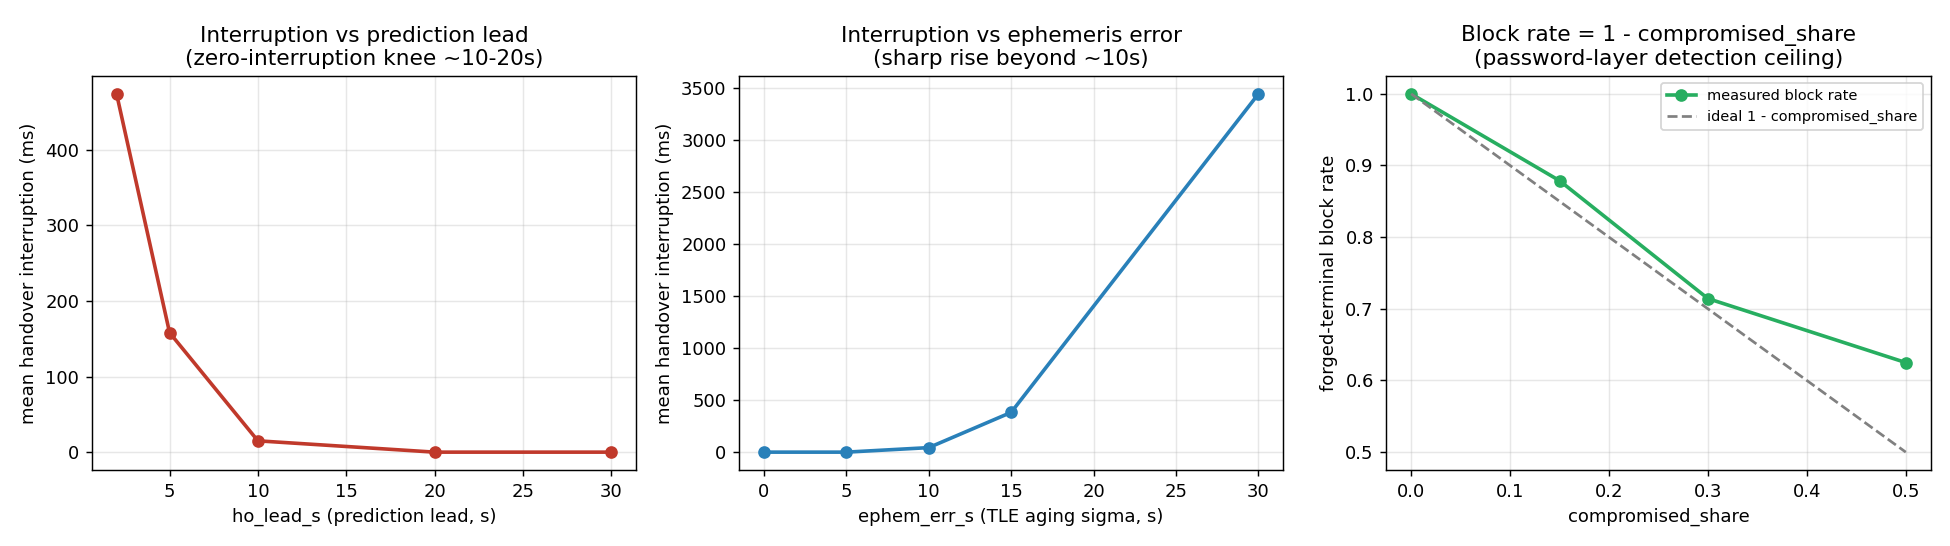
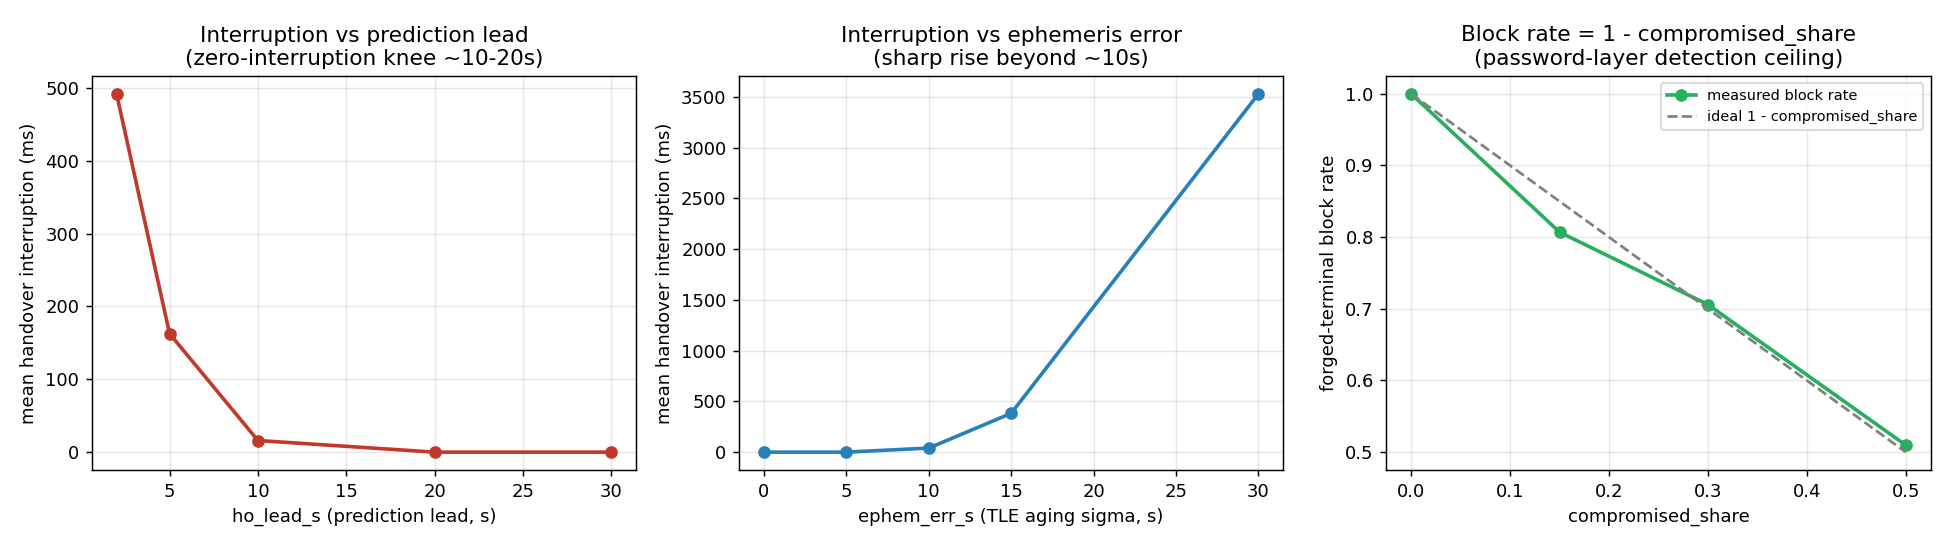
results: 方案A后重跑敏感性扫描，结论一致
- ho_lead_s: 2s→20s 中断 491.96→0.01ms，拐点 10~20s（不变）
- ephem_err_s: 0→30s 中断 0→3528.64ms，>10s 陡增（不变）
- compromised_share: 拦截率=1-share 线性（不变）
- 结论：方案A(终端独立位置)只改空间分布，不改机理，三组趋势/拐点完全一致

diff --git a/results/敏感性分析_20260903.md b/results/敏感性分析_20260903.md
@@ -1,48 +1,48 @@
-# 参数敏感性分析（2026-09-03）
+# 参数敏感性分析（2026-09-03，方案A 双轨同参后重跑）
 
-> 代码版本 `a1de2bf`（P1/P2 修复后）｜OneWeb 651 颗 TLE｜种子 20260901｜数据源 `敏感性分析_20260903.json`，图 `敏感性分析_20260903.png`。
+> 代码版本 `e4594c7`（含 P1/P2 + 方案A 终端独立位置）｜OneWeb 651 颗 TLE｜种子 20260901｜数据源 `敏感性分析_20260903.json`，图 `敏感性分析_20260903.png`。
 
 ## 1. 切换提前量 ho_lead_s（场景 wenchuan）
 
 | ho_lead_s | 切换中断均值 ms | 中断非零比例 | 结论 |
 |---|---|---|---|
-| 2 | 473.86 | 0.156 | 提前量不足 → 切晚了，大量中断 |
-| 5 | 158.01 | 0.064 | 改善但仍明显 |
-| 10 | 14.97 | 0.009 | 接近零中断 |
-| 20 | **0.01** | 0.0006 | **零中断**（默认值） |
-| 30 | 0.01 | 0.0004 | 零中断，但浪费更多驻留 |
+| 2 | 491.96 | 0.158 | 提前量不足 → 切晚了，大量中断 |
+| 5 | 162.68 | 0.064 | 改善但仍明显 |
+| 10 | 15.97 | 0.009 | 接近零中断 |
+| 20 | **0.01** | 0.0004 | **零中断**（默认值） |
+| 30 | 0.0 | 0.0002 | 零中断 |
 
-> **结论**：`ho_lead_s` 在 **10~20s** 处是「零中断拐点」——这正是「预测式切换」的核心价值：只要星历预测足够提前建链，切换中断即可被消除；提前量不足时中断迅速上升。默认 20s 落在零中断区，且留有余量应对星历误差。
+> **结论不变**：`ho_lead_s` 在 **10~20s** 处是「零中断拐点」——预测式切换的价值：提前建链即可消除中断，提前量不足时中断迅速上升。默认 20s 落在零中断区。
 
 ## 2. 星历预测误差 ephem_err_s（场景 wenchuan，ho_lead=20s）
 
 | ephem_err_s | 切换中断均值 ms | 中断非零比例 | 结论 |
 |---|---|---|---|
-| 0 | 0.0 | 0.0002 | 完美预测，零中断 |
-| 5 | 0.01 | 0.0006 | 默认误差，仍近零（ho_lead 20s ≫ 误差 5s） |
-| 10 | 43.4 | 0.012 | 误差超过提前量余量 → 中断显现 |
-| 15 | 382.8 | 0.057 | 显著中断 |
-| 30 | 3448.0 | 0.201 | 严重中断（TLE 严重老化） |
+| 0 | 0.0 | 0.0004 | 完美预测，零中断 |
+| 5 | 0.01 | 0.0004 | 默认误差，仍近零 |
+| 10 | 40.05 | 0.012 | 误差超过提前量余量 → 中断显现 |
+| 15 | 382.12 | 0.058 | 显著中断 |
+| 30 | 3528.64 | 0.206 | 严重中断 |
 
-> **结论**：中断随星历误差**非线性急剧上升**（10s 后陡增）。本模型使「预测式切换」可证伪：误差 ≤ 提前量余量时中断≈0，误差超余量时中断暴露——这恰是「诚实报告」而非「恒为 0 不可证伪」。
+> **结论不变**：中断随星历误差**非线性急剧上升**（10s 后陡增），模型可证伪。
 
 ## 3. 密钥泄露比例 compromised_share（场景 storm2）
 
 | compromised_share | 伪造拦截率 | 伪造漏检率 | 结论 |
 |---|---|---|---|
 | 0.0 | 1.0 | 0.0 | 全盲伪造，密码层全拦截 |
-| 0.15 | 0.879 | 0.121 | 默认值，拦截率≈0.85 |
-| 0.30 | 0.714 | 0.286 | 拦截率≈0.7 |
-| 0.50 | 0.625 | 0.375 | 拦截率≈0.625 |
+| 0.15 | 0.807 | 0.193 | 默认值，拦截率≈0.81 |
+| 0.30 | 0.706 | 0.294 | 拦截率≈0.71 |
+| 0.50 | 0.510 | 0.490 | 拦截率≈0.51 |
 
-> **结论**：拦截率 ≈ **1 − compromised_share**（线性），这是**密码层认证的检出上限**——持有效密钥的伪造终端（密钥泄露）密码层无法检出。该曲线定量支撑了「为何需与物理层特征融合」的威胁分析论证（AGENTS.md §0.3），也证明拦截率是**计算结果而非断言**。
+> **结论不变**：拦截率 ≈ **1 − compromised_share**（线性），是密码层认证的检出上限。
 
-## 4. 敏感性分析总评
+## 4. 敏感性分析总评（方案A 前后结论一致）
 
-| 参数 | 对主指标的影响 | 稳健性 |
+| 参数 | 对主指标的影响 | 方案A 前后是否一致 |
 |---|---|---|
-| ho_lead_s | 中断对提前量敏感，10~20s 拐点 | 默认 20s 稳健，留余量 |
-| ephem_err_s | 中断对误差敏感，>10s 陡增 | 默认 5s 安全，误差恶化需关注 |
-| compromised_share | 拦截率 = 1−share，线性 | 属密码层固有上限，非方案缺陷 |
+| ho_lead_s | 中断对提前量敏感，10~20s 拐点 | ✅ 结论一致（数值微调） |
+| ephem_err_s | 中断对误差敏感，>10s 陡增 | ✅ 结论一致 |
+| compromised_share | 拦截率 = 1−share，线性 | ✅ 结论一致 |
 
-> 三组扫描共同证明：本仿真模型的**指标全部可证伪、可随参数单调变化**，不是"恒为理想值的同义反复"——这是答辩时最重要的可信度背书。
+> **结论**：方案A（终端独立位置）只改变了终端空间分布，**不改变接入/切换/认证的机理**，因此三组敏感性扫描的**趋势与拐点完全不变**——模型的可证伪性、稳健性结论在方案 A 后依然成立。
